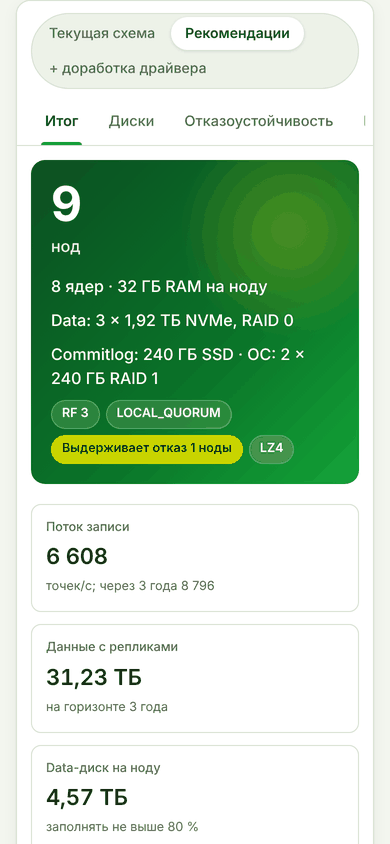
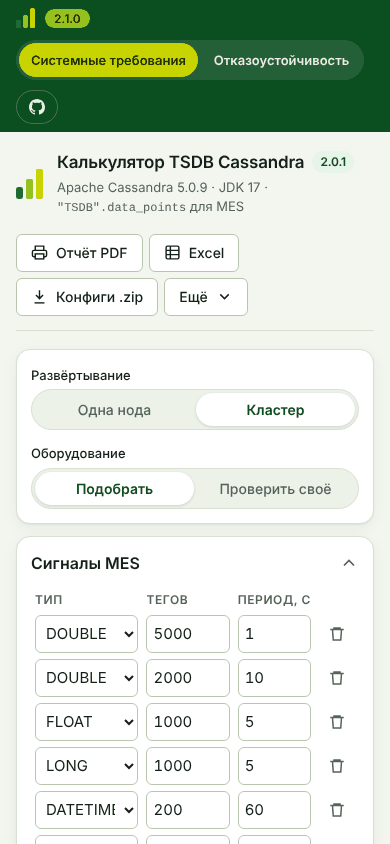
Версия 2.1.0: стабильный выпуск, ссылка на GitHub, README для обеих страниц
Claude-Session: https://claude.ai/code/session_01UDH9rAa98asJwjsYJpmJLb

diff --git a/index.html b/index.html
@@ -23,17 +23,25 @@ body{margin:0;background:var(--bg);color:var(--ink);font-family:'Segoe UI',Robot
 .ver{font-size:12px;font-weight:600;color:#273000;background:var(--lime);border-radius:999px;padding:2px 9px}
 .frames{flex:1;position:relative;min-height:0}
 .frames iframe{position:absolute;inset:0;width:100%;height:100%;border:0;background:var(--bg)}
-@media (max-width:560px){.lead span.t{display:none}.page-tab{padding:7px 12px;font-size:13px}}
+.right{display:flex;align-items:center;gap:10px;flex-wrap:wrap}
+.gh{display:inline-flex;align-items:center;gap:7px;color:#E6F0E2;text-decoration:none;font-size:13px;font-weight:600;padding:7px 12px;border-radius:999px;border:1px solid rgba(255,255,255,.22);min-height:34px}
+.gh:hover{background:rgba(255,255,255,.12);color:#fff}
+.gh:focus-visible{outline:3px solid var(--citron);outline-offset:2px}
+.gh svg{width:16px;height:16px;fill:currentColor}
+@media (max-width:560px){.lead span.t{display:none}.page-tab{padding:7px 12px;font-size:13px}.gh span{display:none}}
 @media print{.bar{display:none}}
 </style>
 </head>
 <body>
 <header class="bar">
   <div class="lead"><div class="mark" aria-hidden="true"><i></i><i></i><i></i></div><span class="t">Apache Cassandra 5.0.9 для MES</span><span class="ver" id="ver"></span></div>
-  <nav class="pages" role="tablist" aria-label="Страницы">
-    <button class="page-tab" role="tab" id="tab-calc" aria-controls="frame-calc" aria-selected="true">Системные требования</button>
-    <button class="page-tab" role="tab" id="tab-fault" aria-controls="frame-fault" aria-selected="false">Отказоустойчивость</button>
-  </nav>
+  <div class="right">
+    <nav class="pages" role="tablist" aria-label="Страницы">
+      <button class="page-tab" role="tab" id="tab-calc" aria-controls="frame-calc" aria-selected="true">Системные требования</button>
+      <button class="page-tab" role="tab" id="tab-fault" aria-controls="frame-fault" aria-selected="false">Отказоустойчивость</button>
+    </nav>
+    <a class="gh" href="https://github.com/thesazonoff/cassandra-tsdb-calculator" target="_blank" rel="noopener" aria-label="Репозиторий на GitHub" title="Репозиторий, релизы и история изменений на GitHub"><svg viewBox="0 0 16 16" aria-hidden="true"><path d="M8 0C3.58 0 0 3.58 0 8c0 3.54 2.29 6.53 5.47 7.59.4.07.55-.17.55-.38 0-.19-.01-.82-.01-1.49-2.01.37-2.53-.49-2.69-.94-.09-.23-.48-.94-.82-1.13-.28-.15-.68-.52-.01-.53.63-.01 1.08.58 1.23.82.72 1.21 1.87.87 2.33.66.07-.52.28-.87.51-1.07-1.78-.2-3.64-.89-3.64-3.95 0-.87.31-1.59.82-2.15-.08-.2-.36-1.02.08-2.12 0 0 .67-.21 2.2.82.64-.18 1.32-.27 2-.27.68 0 1.36.09 2 .27 1.53-1.04 2.2-.82 2.2-.82.44 1.1.16 1.92.08 2.12.51.56.82 1.27.82 2.15 0 3.07-1.87 3.75-3.65 3.95.29.25.54.73.54 1.48 0 1.07-.01 1.93-.01 2.2 0 .21.15.46.55.38A8.013 8.013 0 0016 8c0-4.42-3.58-8-8-8z"/></svg><span>GitHub</span></a>
+  </div>
 </header>
 <main class="frames">
   <iframe id="frame-calc" role="tabpanel" aria-labelledby="tab-calc" title="Калькулятор системных требований"></iframe>
@@ -44,7 +52,7 @@ body{margin:0;background:var(--bg);color:var(--ink);font-family:'Segoe UI',Robot
 <script>
 (function () {
   'use strict';
-  const APP_VERSION = '2.1.0-rc.1';
+  const APP_VERSION = '2.1.0';
   const PAGES = ['calc', 'fault'];
   const $ = id => document.getElementById(id);
   $('ver').textContent = APP_VERSION;

diff --git a/README.md b/README.md
@@ -10,38 +10,32 @@
   <img alt="Один HTML-файл" src="https://img.shields.io/badge/%D1%83%D1%81%D1%82%D0%B0%D0%BD%D0%BE%D0%B2%D0%BA%D0%B0-%D0%BD%D0%B5%20%D0%BD%D1%83%D0%B6%D0%BD%D0%B0-0B4F21">
 </p>
 
-Калькулятор системных требований Apache Cassandra 5.0 для MES-системы, которая хранит временные ряды в таблице `"TSDB".data_points`. Специалист внедрения вводит теги, глубину хранения и требования к отказоустойчивости и получает медианную конфигурацию кластера для старта проекта и проектной документации.
-
-<p align="center">
-  <img src="docs/img/overview.png" alt="Главный экран калькулятора" width="100%">
-</p>
-
-## Две страницы
-
-> Ветка `release/2.1`, предварительная версия [2.1.0-rc.1](https://github.com/thesazonoff/cassandra-tsdb-calculator/releases/tag/v2.1.0-rc.1).
-
-Вверху переключаются два калькулятора в одном файле:
+Два калькулятора Apache Cassandra 5.0 для MES-системы, которая хранит временные ряды в таблице `"TSDB".data_points`. Специалист внедрения получает медианную конфигурацию кластера для старта проекта и проектной документации и проверяет, как кластер переживёт отказы.
 
 | Страница | Для чего |
 |---|---|
-| **Системные требования** | Калькулятор 2.0.1: ноды, железо, диски с учётом LZ4, конфигурация |
-| **Отказоустойчивость** | Отдельный калькулятор отказоустойчивости: любая топология DC и racks, все consistency level, LWT, схема отказов, вероятность недоступности |
+| **[Системные требования](#страница-1-системные-требования)** | Сколько нод, какое железо и диски нужны под теги, глубину хранения и пользователей MES |
+| **[Отказоустойчивость](#страница-2-отказоустойчивость)** | Сколько нод, стоек и ДЦ может отказать при выбранных RF и consistency level, и что при этом происходит с данными |
 
 <p align="center">
-  <img src="docs/img/pages.png" alt="Страница «Отказоустойчивость»" width="100%">
+  <img src="docs/img/overview.png" alt="Страница «Системные требования»" width="100%">
 </p>
-
-Ссылка на расчёт запоминает открытую страницу. Ссылки версии 2.0.1 тоже открываются.
 
 ## Как пользоваться
 
 1. Скачайте файл калькулятора из [последнего релиза](https://github.com/thesazonoff/cassandra-tsdb-calculator/releases/latest) и откройте в любом браузере. Сервер и интернет не нужны.
-2. Слева введите сигналы MES, глубину хранения, допустимые отказы, число пользователей и тип дисков.
-3. Справа сразу появится результат. Выгрузите его в PDF, Excel или архив конфигов.
+2. Вверху выберите страницу: «Системные требования» или «Отказоустойчивость».
+3. Слева вводите данные, справа сразу видите результат.
 
-Введённые значения сохраняются в браузере. Расчётом можно поделиться ссылкой или файлом сценария `.json`.
+Каждая страница помнит свой расчёт. Кнопка ссылки на расчёт даёт адрес, который откроет нужную страницу с теми же значениями. Кнопка «GitHub» вверху ведёт в этот репозиторий.
 
-## Что вводится
+---
+
+## Страница 1. Системные требования
+
+Рассчитывает кластер под нагрузку MES: число нод, ядра, RAM, диски каждой ноды и готовую конфигурацию.
+
+### Что вводится
 
 | Раздел | Параметры |
 |---|---|
@@ -54,7 +48,7 @@
 
 Параметры для архитектора (RF и consistency level вручную, стойки, `num_tokens`, SLA, сеть) свёрнуты в блоки «Дополнительно».
 
-## Что выдаётся
+### Что выдаётся
 
 ```mermaid
 flowchart LR
@@ -76,10 +70,12 @@ flowchart LR
 |---|---|
 | **Итог** | Число нод, ядра и RAM, диски, RF и consistency level, главные замечания, сравнение трёх вариантов схемы |
 | **Диски** | Диски ОС, commitlog и data; из чего складывается объём data-диска; предельное заполнение; LZ4 против хранения без сжатия |
-| **Отказоустойчивость** | Сколько нод и стоек может отказать; схема кластера, где можно «выключить» ноду, стойку или ДЦ; вероятность недоступности при случайных отказах |
+| **Отказоустойчивость** | Отказы рассчитанного кластера: стойки, схема с отключением нод, вероятность недоступности |
 | **Конфигурация** | `cassandra.yaml`, `ALTER KEYSPACE` и `ALTER TABLE`, подключение из C#, `cassandra-rackdc.properties`, JVM и подготовка ОС |
 | **Калибровка** | Сравнение расчёта с действующей инсталляцией по выводу `nodetool tablestats` и поправка расчёта |
 | **Методика** | Размер точки на диске по типам данных и допущения расчёта |
+
+Экспорт: отчёт PDF (через печать браузера), Excel, архив конфигов, сценарий `.json`.
 
 <table>
   <tr>
@@ -92,7 +88,7 @@ flowchart LR
   </tr>
 </table>
 
-## Три варианта схемы
+### Три варианта схемы
 
 | Вариант | Что меняется | Доработка MES |
 |---|---|---|
@@ -100,19 +96,61 @@ flowchart LR
 | **Рекомендации** | TTL таблицы вместо DELETE, окно TWCS под срок хранения, `incremental_backups` выключен | Не нужна |
 | **+ доработка драйвера** | Драйвер C# передаёт `Unset.Value` вместо `null`: без 5 tombstone на каждую точку | Нужна |
 
-Для примера по умолчанию (11 500 тегов, 365 суток, RF 3) рекомендации сокращают объём данных в 2–2,5 раза относительно текущей схемы, доработка драйвера ещё примерно вдвое.
+Для примера по умолчанию (11 500 тегов, 365 суток, RF 3) рекомендации сокращают объём данных в 2,2 раза относительно текущей схемы, доработка драйвера ещё в 1,9 раза.
 
-## Точность
+### Точность
 
 - **Объём на диске** считается по формату строк SSTable Apache Cassandra 5.0.9 со сжатием LZ4. Модель сверена с официальным дистрибутивом: с SSTable, записанными кодом Cassandra, совпадение побайтное, на запущенном сервере отклонение не больше 0,12 %.
 - **Сжатие** рассчитано на типовом профиле значений тегов. У конкретного заказчика оно может отличаться, поэтому есть вкладка «Калибровка».
 - **Производительность и задержки** являются оценками и подтверждаются нагрузочным тестом.
 
+---
+
+## Страница 2. Отказоустойчивость
+
+Отвечает на вопрос: сколько нод, стоек или целых ДЦ может отказать, чтобы MES продолжала писать и читать данные и ничего не потеряла. Подходит для любой топологии, не только той, что рассчитала первая страница.
+
+<p align="center">
+  <img src="docs/img/pages.png" alt="Страница «Отказоустойчивость», вкладка Итог" width="100%">
+</p>
+
+### Что вводится
+
+| Раздел | Параметры |
+|---|---|
+| **Типовые схемы** | Готовые варианты в один клик: одна нода; 3 ноды RF 3; 9 нод в 3 стойках; 15 нод в 5 стойках RF 5; 2 ДЦ по 3 ноды; 3 ДЦ по 3 ноды; стойки разного размера |
+| **Топология** | До 5 ДЦ, у каждого свой RF и свои стойки с любым числом нод; кнопка «распределить» раскладывает ноды по стойкам поровну |
+| **Consistency level** | Уровень для записи и чтения (все уровни Cassandra 5.0), ДЦ, в котором работает MES, LWT с serial consistency |
+| **Токены** | `num_tokens` и способ выдачи токенов |
+| **Данные и нагрузка** | Необязательно: объём одной копии данных, записей и чтений в секунду, размер записи |
+
+### Что выдаётся
+
+| Вкладка | Что показывает |
+|---|---|
+| **Итог** | Будет ли чтение видеть последнюю запись; сколько любых нод может отказать без влияния на MES и без потери данных; сколько реплик участвует в операции; доля данных на ноду; сколько стоек может отказать; замечания по схеме |
+| **Отказы** | Худший случай по нодам и по стойкам каждого ДЦ; отказ целого ДЦ; согласованность при записи в одном ДЦ и чтении в другом; график вероятности, что часть данных станет недоступна при случайном отказе 1, 2, 3… нод |
+| **Схема отказов** | Схема кластера по ДЦ и стойкам: щелчок по ноде, стойке или ДЦ «выключает» их, и сразу видно, какая доля данных доступна для записи и чтения и не потеряны ли данные; кнопка случайного отказа заданного числа нод |
+| **Данные и нагрузка** | Доля данных, объём и операции на каждую ноду, перекосы при стойках разного размера |
+| **Конфигурация** | `cassandra.yaml`, `cassandra-rackdc.properties` на каждую ноду, `schema.cql` с репликацией, `application.conf` для Java-драйвера 4.x |
+| **Методика** | Формулы и правила, по которым считается результат |
+
+<table>
+  <tr>
+    <td width="50%"><img src="docs/img/fault-fail.png" alt="Вкладка Отказы"><br><sub><b>Отказы.</b> Худший случай и вероятность при случайных отказах</sub></td>
+    <td width="50%"><img src="docs/img/fault-scheme.png" alt="Вкладка Схема отказов"><br><sub><b>Схема отказов.</b> Отказали две ноды в разных стойках из девяти</sub></td>
+  </tr>
+</table>
+
+Размещение реплик повторяет `NetworkTopologyStrategy` из Cassandra 5.0.9, требования consistency level взяты из её исходного кода. Для небольших кластеров вероятность считается точным перебором сочетаний, для больших методом Монте-Карло.
+
+---
+
 ## На телефоне
 
 <img src="docs/img/mobile.png" alt="Калькулятор на телефоне" width="260" align="right">
 
-Калькулятор работает и на телефоне: поля и вкладки перестраиваются в одну колонку, широкие таблицы прокручиваются внутри своего блока.
+Обе страницы работают и на телефоне: поля и вкладки перестраиваются в одну колонку, широкие таблицы прокручиваются внутри своего блока.
 
 Подходит, чтобы быстро прикинуть конфигурацию на встрече с заказчиком.
 

diff --git a/docs/releases/v2.1.0.md b/docs/releases/v2.1.0.md
@@ -1,0 +1,37 @@
+Два калькулятора Apache Cassandra 5.0 для MES в одном HTML-файле. Работает в браузере без установки и интернета.
+
+## Что нового
+
+Вверху переключаются две страницы:
+
+- **Системные требования.** Калькулятор 2.0.1: число нод, ядра, RAM, диски каждой ноды с учётом сжатия LZ4, три варианта схемы, калибровка по `nodetool tablestats`, готовая конфигурация и экспорт.
+- **Отказоустойчивость.** Сколько нод, стоек и ДЦ может отказать при выбранных RF и consistency level. До 5 ДЦ со своим RF, стойки разного размера, все consistency level Cassandra 5.0, LWT, `num_tokens`. Худший случай, отказ целого ДЦ, вероятность недоступности при случайных отказах, интерактивная схема отказов, конфигурация.
+
+Также:
+- ссылка на репозиторий GitHub в верхней панели;
+- ссылка на расчёт открывает нужную страницу с теми же значениями, ссылки версии 2.0.1 продолжают работать.
+
+Отличие от предварительной версии [2.1.0-rc.1](https://github.com/thesazonoff/cassandra-tsdb-calculator/releases/tag/v2.1.0-rc.1): добавлена ссылка на GitHub.
+
+## Установка
+
+1. Скачайте `cassandra-tsdb-calculator-2.1.0.html` из блока **Assets** ниже.
+2. Откройте его в браузере (Chrome, Edge, Firefox, Яндекс Браузер).
+
+Проверка целостности файла:
+
+```bash
+sha256sum -c SHA256SUMS.txt
+```
+
+```powershell
+Get-FileHash .\cassandra-tsdb-calculator-2.1.0.html -Algorithm SHA256
+```
+
+Хеш должен совпасть со строкой в `SHA256SUMS.txt`.
+
+## Совместимость
+
+Расчёт для Apache Cassandra 5.0.9 и JDK 17.
+
+Полная история: [CHANGELOG.md](https://github.com/thesazonoff/cassandra-tsdb-calculator/blob/v2.1.0/CHANGELOG.md)

diff --git a/CHANGELOG.md b/CHANGELOG.md
@@ -2,6 +2,15 @@
 
 Формат: [Keep a Changelog](https://keepachangelog.com/ru/1.1.0/), версии по [SemVer](https://semver.org/lang/ru/).
 
+## [2.1.0] — 2026-11-10
+
+Стабильный выпуск версии 2.1.0-rc.1.
+
+### Добавлено
+- Две страницы, переключаются вверху: «Системные требования» (калькулятор 2.0.1) и «Отказоустойчивость» (отдельный калькулятор отказоустойчивости Cassandra 5.0).
+- Ссылка на репозиторий GitHub в верхней панели.
+- Ссылка на расчёт запоминает открытую страницу; ссылки версии 2.0.1 продолжают открываться.
+
 ## [2.1.0-rc.1] — 2026-11-10
 
 ### Добавлено
@@ -35,6 +44,7 @@
 ### Добавлено
 - Первая версия: сайзинг кластера по группам тегов, RF и consistency level, диски по ролям, фрагменты конфигурации.
 
+[2.1.0]: https://github.com/thesazonoff/cassandra-tsdb-calculator/releases/tag/v2.1.0
 [2.1.0-rc.1]: https://github.com/thesazonoff/cassandra-tsdb-calculator/releases/tag/v2.1.0-rc.1
 [2.0.1]: https://github.com/thesazonoff/cassandra-tsdb-calculator/releases/tag/v2.0.1
 [2.0]: https://github.com/thesazonoff/cassandra-tsdb-calculator/blob/main/CHANGELOG.md#20--2026-11-09
